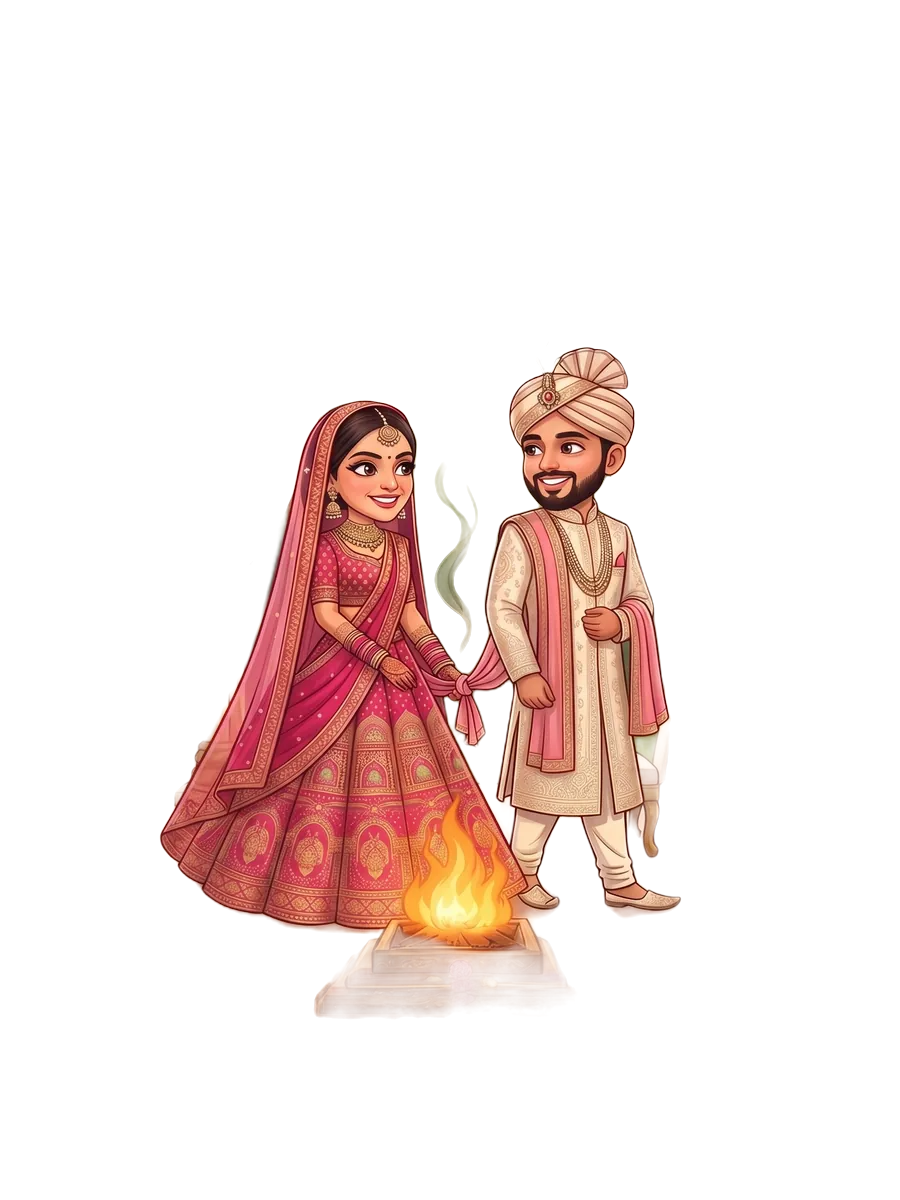
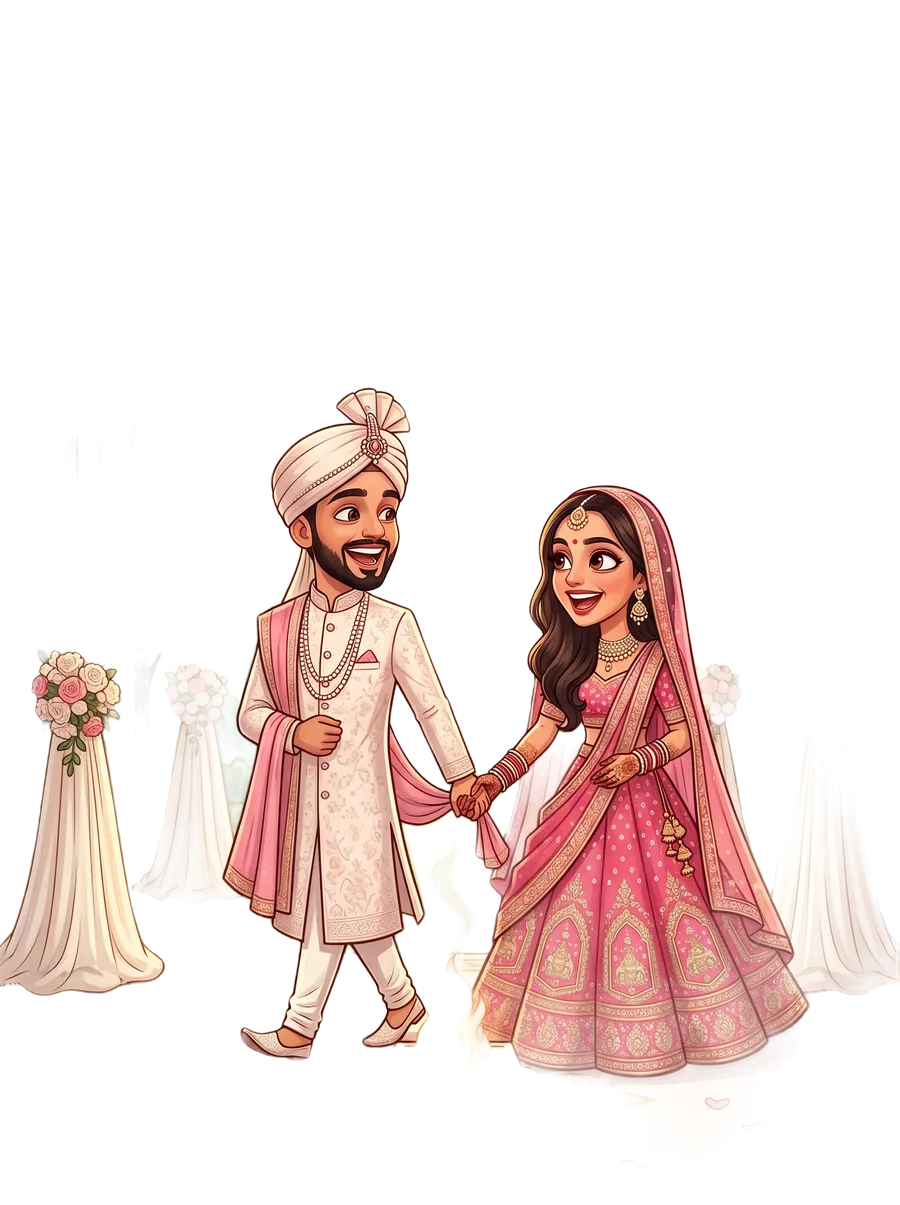
Swap Phere caricature for new mandap art (new fg cutout + bg)
Regenerate phere_fg (couple cutout) and phere_bg (backdrop, couple painted
out) from the new Gemini image via tools/prep_assets.py. Size 900x1205.
Point prep_assets output at public/assets (post-rewrite location).

Changed region(s): [[0.0, 0.2775, 1.0, 0.925]]

diff --git a/src/config.ts b/src/config.ts
@@ -31,7 +31,7 @@ export const CONFIG: InviteConfig = {
     reception_fg: 'assets/reception_fg.webp',
     haldi_size: [900, 1200],
     sangeet_size: [900, 939],
-    phere_size: [900, 1200],
+    phere_size: [900, 1205],
     reception_size: [900, 1601],
   },
 }

diff --git a/tools/prep_assets.py b/tools/prep_assets.py
@@ -24,7 +24,7 @@ from PIL import Image
 from rembg import new_session, remove
 
 ROOT = os.path.dirname(os.path.dirname(os.path.abspath(__file__)))
-SRC, OUT = os.path.join(ROOT, 'source-art'), os.path.join(ROOT, 'assets')
+SRC, OUT = os.path.join(ROOT, 'source-art'), os.path.join(ROOT, 'public', 'assets')
 WIDTH = 900
 
 # Gemini letterboxing to trim, as (x0, y0, x1, y1) in source pixels. None keeps the whole image.
@@ -90,5 +90,5 @@ if __name__ == '__main__':
     sizes = {}
     for k in keys:
         print(k); sizes[k + '_size'] = event(k, sessions)
-    print('\nPaste into js/config.js assets:')
+    print('\nPaste into src/config.ts assets (update <event>_size):')
     for k, v in sizes.items(): print(f'    "{k}": {v},')
